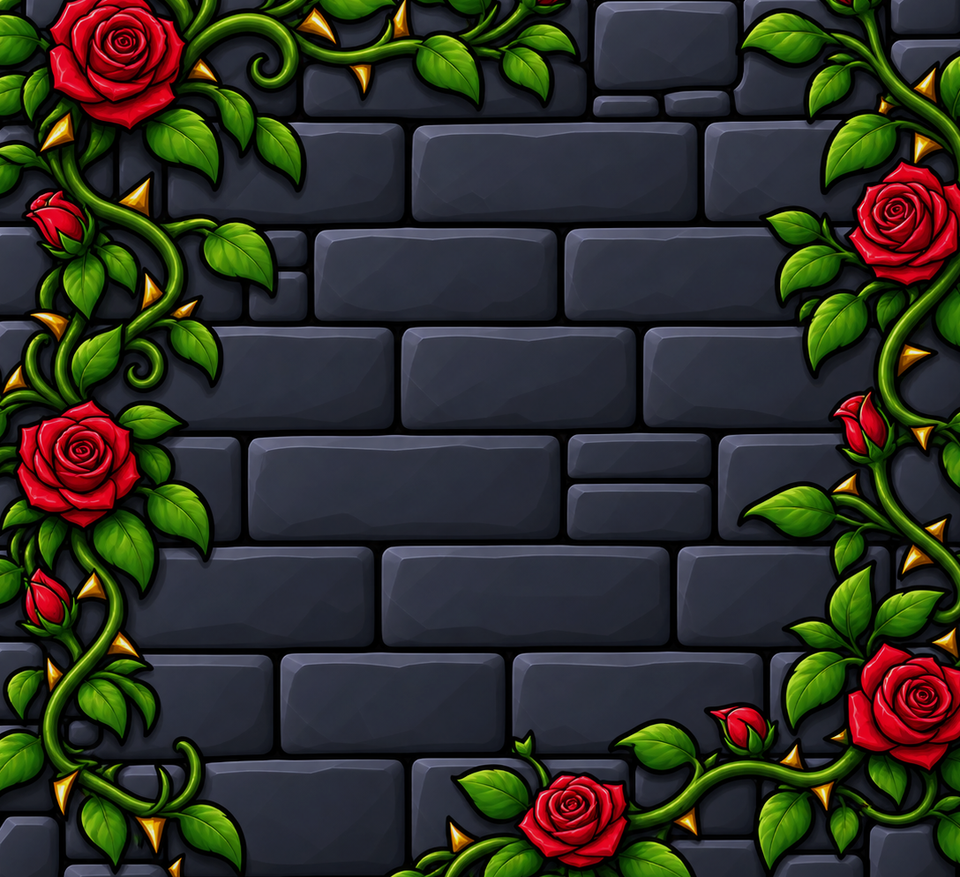
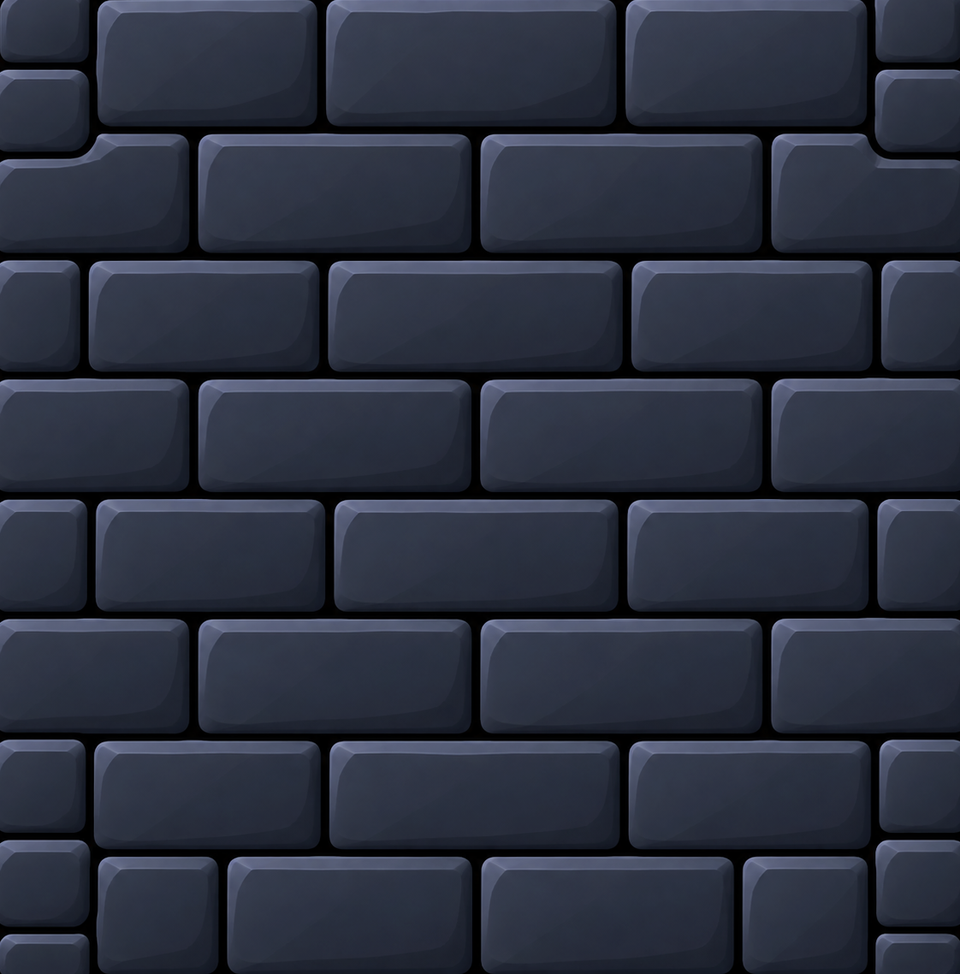
feat: flat stone wall at 50% opacity, remove vine dividers, BetUI trims, smaller slot clear of the BetUI

diff --git a/frontend/apps/poc/src/components/skyjump_v2/SkyJumpV2Board.svelte b/frontend/apps/poc/src/components/skyjump_v2/SkyJumpV2Board.svelte
@@ -7,10 +7,7 @@
 	import { getContext } from '../../game/context';
 	import {
 		loungeShown,
-		loungeSlotColumnMaskSrc,
-		loungeSlotColumnSrc,
 		loungeSlotFrameSrc,
-		loungeSlotTabletMaskSrc,
 		loungeSlotTabletSrc,
 		loungeSlotWindMaskSrc,
 	} from '../../game/midnightLoungeTheme';
@@ -53,7 +50,6 @@
 	import GemPulse from './GemPulse.svelte';
 	import FoliageWind from './FoliageWind.svelte';
 	import {
-		V2_COLUMN_DIVIDERS,
 		V2_FRAME_ART,
 		V2_FRAME_VISIBLE,
 		V2_FRAME_WINDOWS,
@@ -294,17 +290,17 @@
 	 * The larger frame is raised by this many px @1280x720 (its crest runs over the top edge) so the
 	 * last row ends at the BetUI instead of behind it.
 	 */
-	const BOARD_RISE = 0;
+	const BOARD_RISE = 20;
 	const availH = $derived(Math.max(120, maxBoardH + framePadEstimate * 2 + 4));
 	/** No CSS frame any more: the artwork provides all chrome, the grid is a flush 5x5 of cell pitches. */
 	const FRAME_BORDER = 0;
 	const gap = 0;
 	const framePad = 0;
 	/**
-	 * Slot width (px @1280): the frame art is scaled so the 5x5 playfield is this wide. 553 = 823 x (720 / 1072):
+	 * Slot width (px @1280): the frame art is scaled so the 5x5 playfield is this wide. 514 = 823 x ((650 + 20) / 1072):
 	 * the crest sits on the top edge and the frame's visible bottom (art y 1089) lands on the bottom edge of the stage.
 	 */
-	const BOARD_GRID_W = 553;
+	const BOARD_GRID_W = 514;
 	// Not rounded: a rounded cell height drifts away from the frame's 133.2 art-px row pitch (up to 2.5 px by the last row).
 	const cellW = $derived(Math.max(22, px(BOARD_GRID_W) / 5));
 	const cellH = $derived(Math.max(22, cellW / V2_SLOT_BOARD_FRAME.cellAspect));
@@ -1169,46 +1165,23 @@
 			</div>
 		{/if}
 		<div class="board-surface" data-test="skyjump-v2-board-surface">
-			<!-- Layer 0: the stone tablet behind the opening (its vines sway), under the rolling symbols and the frame. -->
+			<!-- Layer 0: the flat stone wall behind the opening (50 % opaque, static), under the rolling symbols and the frame. -->
 			<div
 				class="board-art-back"
 				style:left={`${slotFrameLeft}px`}
 				style:top={`${slotFrameTop}px`}
 			>
-				<FoliageWind
+				<img
+					class="slot-wall"
 					src={loungeSlotTabletSrc}
-					maskSrc={loungeSlotTabletMaskSrc}
-					left={V2_TABLET_RECT.left * frameK}
-					top={V2_TABLET_RECT.top * frameK}
-					width={V2_TABLET_RECT.width * frameK}
-					height={V2_TABLET_RECT.height * frameK}
-					artW={V2_TABLET_RECT.texW}
-					artH={V2_TABLET_RECT.texH}
-					amplitude={1.4}
-					testId="skyjump-v2-slot-tablet"
+					alt=""
+					draggable="false"
+					data-test="skyjump-v2-slot-wall"
+					style:left={`${V2_TABLET_RECT.left * frameK}px`}
+					style:top={`${V2_TABLET_RECT.top * frameK}px`}
+					style:width={`${V2_TABLET_RECT.width * frameK}px`}
+					style:height={`${V2_TABLET_RECT.height * frameK}px`}
 				/>
-			</div>
-			<!-- Vine dividers between the columns: above the tiles, under the symbols, their ends tucked under the frame bars. -->
-			<div
-				class="board-art-dividers"
-				style:left={`${slotFrameLeft}px`}
-				style:top={`${slotFrameTop}px`}
-			>
-				{#each V2_COLUMN_DIVIDERS.lefts as dividerLeft, k}
-					<FoliageWind
-						src={loungeSlotColumnSrc(k + 1)}
-						maskSrc={loungeSlotColumnMaskSrc}
-						left={dividerLeft * frameK}
-						top={V2_COLUMN_DIVIDERS.top * frameK}
-						width={V2_COLUMN_DIVIDERS.width * frameK}
-						height={V2_COLUMN_DIVIDERS.height * frameK}
-						artW={V2_COLUMN_DIVIDERS.texW}
-						artH={V2_COLUMN_DIVIDERS.texH}
-						amplitude={7}
-						phase={k * 1.7}
-						testId={`skyjump-v2-slot-divider-${k + 1}`}
-					/>
-				{/each}
 			</div>
 			<div
 				class="board-art-frame"
@@ -1682,11 +1655,12 @@
 		pointer-events: none;
 	}
 
-	/* Above the tier tiles (z 3), under the symbols (z 8+) and the frame (z 6): its ends disappear under the frame bars. */
-	.board-art-dividers {
+	.slot-wall {
 		position: absolute;
-		z-index: 5;
-		pointer-events: none;
+		max-width: none;
+		object-fit: fill;
+		opacity: 0.5;
+		user-select: none;
 	}
 
 	.board-art-frame {

diff --git a/frontend/apps/poc/src/components/midnightLoungeBetUi/MidnightLoungeBetUI.svelte b/frontend/apps/poc/src/components/midnightLoungeBetUi/MidnightLoungeBetUI.svelte
@@ -168,7 +168,8 @@
 		const spinCx = spin.x + spin.w / 2;
 		const spinCy = spin.y + spin.h / 2;
 		const spinR = spin.w / 2;
-		const GAP = 11;
+		// Just a few transparent pixels between the controls and the SPIN disc.
+		const GAP = 3;
 		const leftOfSpin = (w: number, y: number, h: number) => {
 			const nearestY = Math.min(Math.max(spinCy, y), y + h);
 			const dy = Math.abs(spinCy - nearestY);
@@ -183,7 +184,7 @@
 		};
 		// BET plate and its content 10 % smaller, centred on the old row.
 		const betOld = box('bet_background', ...toward(1280, 804, 614), 286 * K);
-		const betW = betOld.w * 0.9;
+		const betW = betOld.w * 0.9 * 0.9;
 		const betH = box('bet_background', 0, 0, betW).h;
 		const betY = BOTTOM - betH;
 		const bet = box('bet_background', leftOfSpin(betW, betY, betH), betY, betW);
@@ -193,7 +194,7 @@
 		const cy = bet.y + (bet.h - d) / 2;
 		// Left part: balance and menu end on the same line, the bonus plate moves with them.
 		const balance0 = box('balance', ...toward(0, 6, 606), 347 * K);
-		const menu0 = box('menu', ...toward(0, 3, 609), 96 * K, 91 * K);
+		const menu0 = box('menu', ...toward(0, 3, 609), 96 * K * 0.9, 91 * K * 0.9);
 		const dyL = BOTTOM - Math.max(balance0.y + balance0.h, menu0.y + menu0.h);
 		const lowered = (r: HudBox): HudBox => ({ ...r, y: r.y + dyL });
 		const bonus0 = box('bonus', ...toward(0, 9, 543), 207 * K);
@@ -204,9 +205,11 @@
 			win: (() => {
 				// WIN sits exactly under the middle of the slot (stage x = 640) on the lower edge of the frame:
 				// its lowest pixel is on the shared bottom line.
-				const w = 261 * K;
-				const h = box('bet_background', 0, 0, w).h;
-				return box('bet_background', 640 - w / 2, BOTTOM - h, w);
+				// 10 % lower and 15 % longer than the plain plate (its art is stretched).
+				const base = box('bet_background', 0, 0, 261 * K);
+				const w = base.w * 1.15;
+				const h = base.h * 0.9;
+				return box('bet_background', 640 - w / 2, BOTTOM - h, w, h);
 			})(),
 			bet,
 			minus: box('minus', bet.x + m, cy, d),
@@ -762,9 +765,12 @@
 	.hud-win {
 		position: absolute;
 		transform: translate(-50%, -50%);
-		display: grid;
-		justify-items: center;
-		gap: 2px;
+		/* One line: WIN and the amount side by side. */
+		display: flex;
+		align-items: baseline;
+		justify-content: center;
+		gap: 8px;
+		white-space: nowrap;
 		color: #fbe9b0;
 		font-family: var(--ml-font-gold, 'Luckiest Guy', serif);
 		text-shadow: 0 2px 0 rgba(40, 8, 16, 0.9);
@@ -789,11 +795,13 @@
 
 	/* BET plate: its lettering is 10 % smaller with the plate. */
 	.hud .bet-btn .kicker {
-		font-size: 9.6px;
+		font-size: 10.1px;
+		transform: scaleX(1.14);
 	}
 
 	.hud .bet-btn .value {
-		font-size: 15.2px;
+		font-size: 16px;
+		transform: scaleX(1.14);
 	}
 
 	.hud .bonus-label {

diff --git a/frontend/apps/poc/src/game/skyjump_v2/presentationLayout.ts b/frontend/apps/poc/src/game/skyjump_v2/presentationLayout.ts
@@ -135,31 +135,12 @@ export const V2_FRAME_WINDOWS = {
 
 /**
  * Where the stone wall is drawn, in frame art px: the opening plus 3 % on every side (the frame hides the overlap). The
- * picture (960 x 877) is the fully opaque centre of "Kamienna ściana w różanym splocie", so no transparent pixel can show.
+ * picture is the fully opaque centre of `slot_background.png`, 10 % darker (drawn at 50 % opacity), so no transparent pixel can show.
  */
 export const V2_TABLET_RECT = (() => {
 	const mx = HOLE.w * 0.03;
 	const my = HOLE.h * 0.03;
-	return { left: HOLE.x - mx, top: HOLE.y - my, width: HOLE.w + 2 * mx, height: HOLE.h + 2 * my, texW: 960, texH: 877 };
-})();
-
-/**
- * The four vine dividers between the five columns (`slot_column_1..4.png`, 482 x 1446): as tall as the opening plus 4 % at both
- * ends (the frame bars hide the ends), as wide as the picture's own 1:3 ratio gives (`squeeze` < 1 would make them narrower).
- */
-export const V2_COLUMN_DIVIDERS = (() => {
-	const height = HOLE.h * 1.08;
-	const squeeze = 0.58;
-	const width = (height / 3) * squeeze;
-	return {
-		width,
-		height,
-		top: HOLE.y - HOLE.h * 0.04,
-		/** Left edge of each divider: centred on the border between two columns. */
-		lefts: [1, 2, 3, 4].map((k) => HOLE.x + PITCH.w * k - width / 2),
-		texW: 482,
-		texH: 1446,
-	};
+	return { left: HOLE.x - mx, top: HOLE.y - my, width: HOLE.w + 2 * mx, height: HOLE.h + 2 * my, texW: 960, texH: 974 };
 })();
 
 /**

diff --git a/frontend/apps/poc/src/game/midnightLoungeTheme.ts b/frontend/apps/poc/src/game/midnightLoungeTheme.ts
@@ -16,7 +16,6 @@ export const loungeLogoSrc = v2UiAssetUrl('logo');
 export const loungeSlotFrameSrc = resolveGameAsset('assets/midnight-lounge/scene/slot_background_1.png');
 export const loungeSlotWindMaskSrc = resolveGameAsset('assets/midnight-lounge/scene/slot_frame_wind_mask.png');
 export const loungeSlotTabletSrc = resolveGameAsset('assets/midnight-lounge/scene/slot_tablet.png');
-export const loungeSlotTabletMaskSrc = resolveGameAsset('assets/midnight-lounge/scene/slot_tablet_wind_mask.png');
 
 /** Internal id → ski label and the Midnight Lounge label on screen. */
 export const LOUNGE_PRESENTATION = {
@@ -115,5 +114,3 @@ export const loungeUiArt = {
 	plus: resolveGameAsset('assets/midnight-lounge/ui/betui2/plus.png'),
 };
 
-export const loungeSlotColumnSrc = (n: number) => resolveGameAsset(`assets/midnight-lounge/scene/slot_column_${n}.png`);
-export const loungeSlotColumnMaskSrc = resolveGameAsset('assets/midnight-lounge/scene/slot_column_wind_mask.png');

diff --git a/docs/midnight-lounge-character-animation.md b/docs/midnight-lounge-character-animation.md
@@ -479,3 +479,10 @@ Fixed after the guideline review (verified against a local mock RGS, a productio
 - `slot_column_1..4.png` (482x1446) are four vine dividers between the five columns (`V2_COLUMN_DIVIDERS`, squeeze 0.58 of their 1:3 width): z 5 = above the tier tiles, under the symbols and the frame;
   each sways through `FoliageWind` (own phase, ends pinned by `slot_column_wind_mask.png`).
 - Win coins: the coin layer is stretched over the whole `.skyjump-viewport`, so the coins leave through the bottom edge of the stage; `COIN_ESCAPE` (`win_coin_escape.mp3`) plays then.
+
+## Flat wall, no dividers, BetUI trims (latest)
+
+- `scene/slot_tablet.png` is the fully opaque centre of `slot_background.png`, 10 % darker, drawn static at 50 % opacity (`.slot-wall`); the vine dividers (`slot_column_*`), the tablet wind mask and their code are removed.
+- Slot raised by 20 px and smaller (`BOARD_GRID_W` 514) so the frame ends at about y 650, above the WIN / BALANCE / BET plates.
+- BetUI: BET, TURBO and AUTO keep a 3 px gap to the SPIN disc (`GAP`); BET and menu another 10 % smaller; WIN plate 10 % lower and 15 % longer with the label and the amount on one line;
+  BET lettering 5 % bigger and 14 % wider (`scaleX`).
